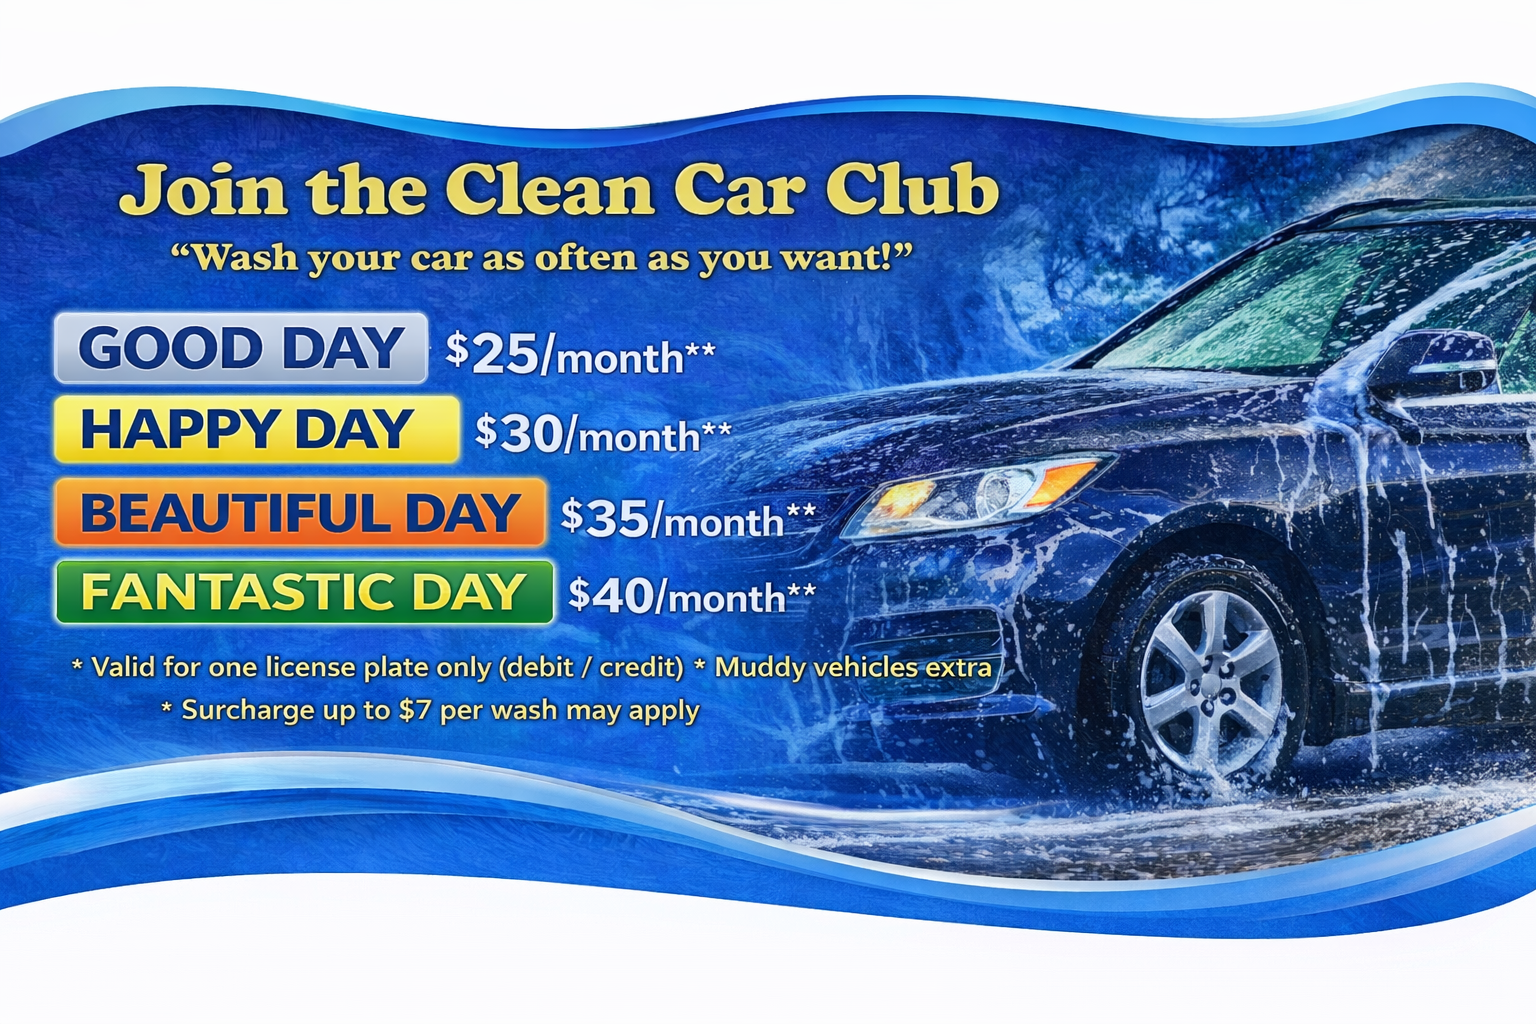
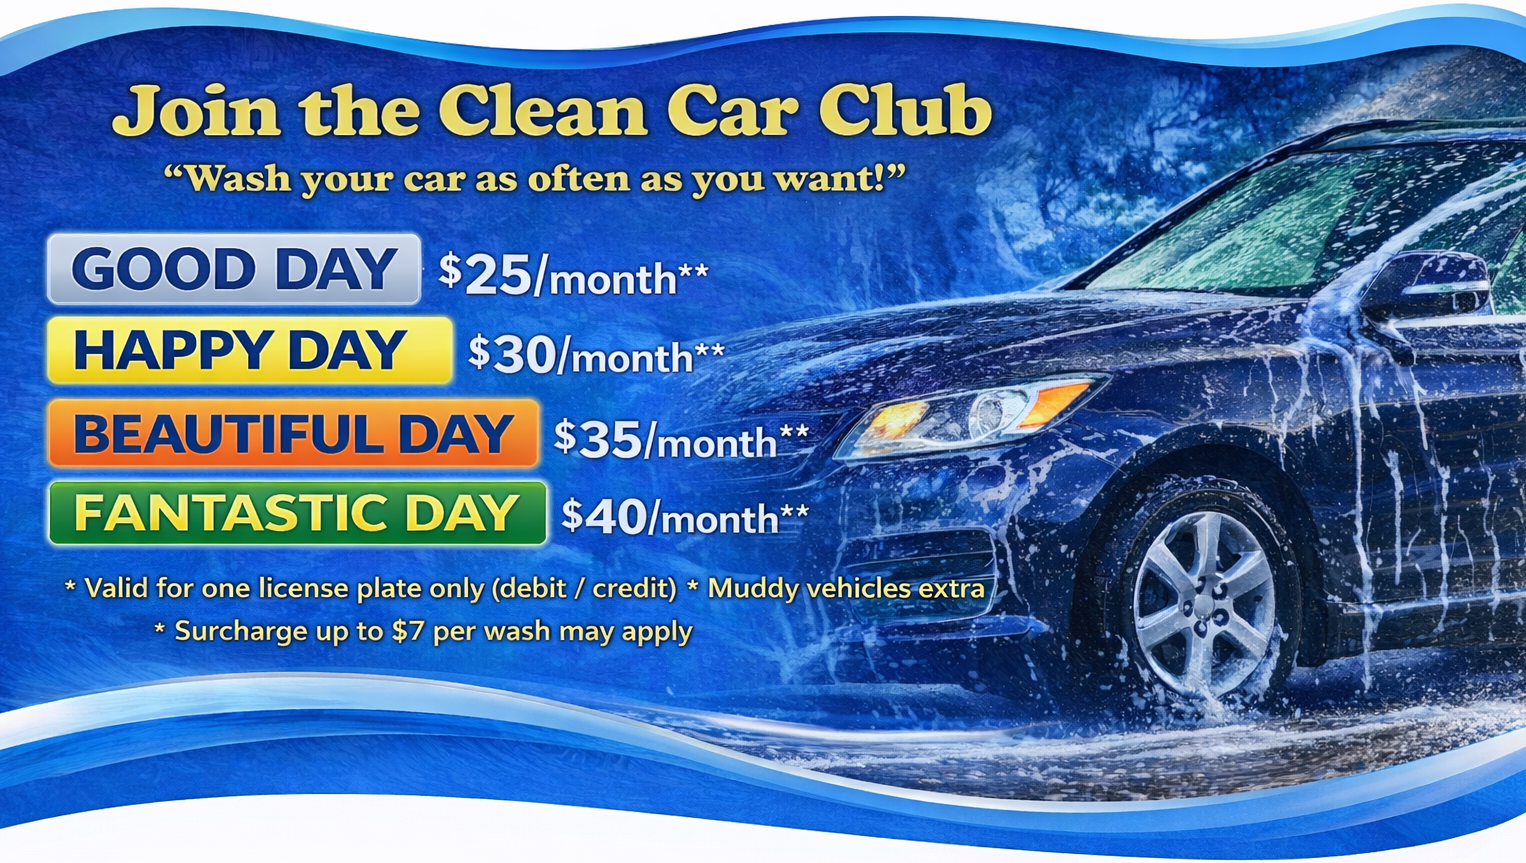
Clean up the css style

diff --git a/index.html b/index.html
@@ -49,7 +49,33 @@
         </div>
       </section>
       <section class="hero reveal-top">
-        <img src="./hero2.png" alt="Car Wash Hero" class="hero-img" />
+        <img src="./hero.png" alt="Car Wash Hero" class="hero-img" />
+      </section>
+      <section class="" style="">
+        <h2
+          style="
+            text-align: center;
+            font-family: 'Changa One', sans-serif;
+            color: #0b7bc2;
+            margin: 0 0 0.4rem;
+          "
+        >
+          Join monthly membership
+        </h2>
+        <p style="text-align: center; font-size: 18px; margin: 0">
+          Enjoy
+          <span style="color: #41ac4b; font-weight: 600">unlimited</span> washes
+          for a low monthly fee. Our membership program offers great value and
+          convenience, allowing you to keep your car looking its best all year
+          round.
+          <span style="color: #41ac4b; font-weight: 600">Sign up</span> today
+          and experience the benefits of being a member!
+        </p>
+        <img
+          src="./banner2.png"
+          alt="Car Wash Menu"
+          style="width: 100%; display: block"
+        />
       </section>
       <!-- <div style="position: relative">
         <img
@@ -91,6 +117,21 @@
         </div>
       </div> -->
       <!-- </div> -->
+      <h2
+        style="
+          text-align: center;
+          font-family: 'Changa One', sans-serif;
+          color: #0b7bc2;
+          margin: 0.5rem 0;
+        "
+      >
+        Single Wash
+      </h2>
+      <p style="text-align: center; font-size: 18px; margin: 0 0 0.4rem">
+        Our single wash options are perfect for those who want a quick and
+        effective clean. Choose from our variety of single wash packages, each
+        designed to give your vehicle a fresh, sparkling appearance.
+      </p>
       <div class="card-wrapper">
         <section class="day-status-container flex-1 reveal-left">
           <h3 class="day-status-title">Single Wash Menu</h3>
@@ -154,12 +195,8 @@
           </div>
         </section>
       </div>
-      <section class="" style="">
-        <img
-          src="./banner2.png"
-          alt="Car Wash Menu"
-          style="width: 100%; display: block"
-        />
+
+      <section>
         <h2
           style="
             text-align: center;
